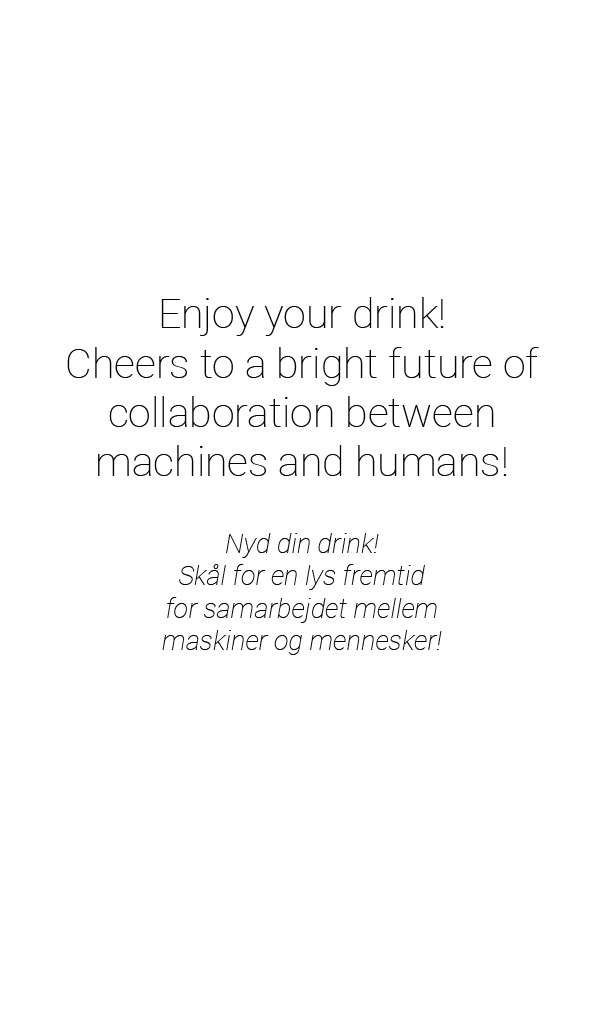
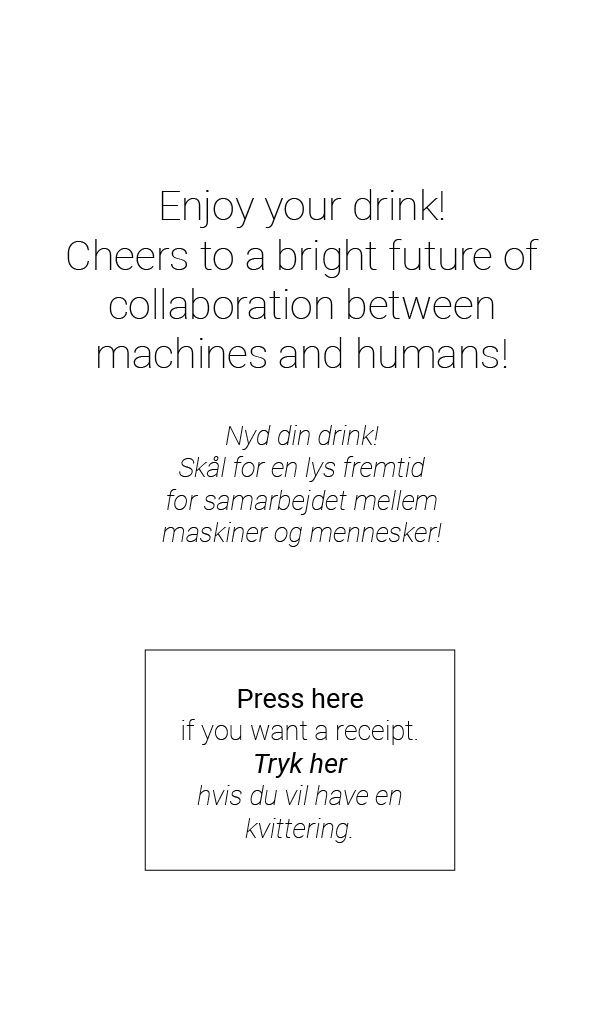
All seems to be working in new system, needs to check arduino call/response codes and test on system

diff --git a/SAM Csharp code/SAM0application/MainForm.Designer.cs b/SAM Csharp code/SAM0application/MainForm.Designer.cs
@@ -64,31 +64,34 @@
             this.statusLabel = new System.Windows.Forms.Label();
             this.progressBar = new System.Windows.Forms.ProgressBar();
             this.fakePayment = new System.Windows.Forms.Button();
+            this.priceLabel = new System.Windows.Forms.Label();
+            this.interfaceImage = new System.Windows.Forms.PictureBox();
+            this.label9 = new System.Windows.Forms.Label();
             this.textBox2 = new System.Windows.Forms.TextBox();
             this.ReceiptNoNumericUpDown = new System.Windows.Forms.NumericUpDown();
             this.LedBreathSpeedNumericUpDown = new System.Windows.Forms.NumericUpDown();
             this.LedBreathMinNumericUpDown = new System.Windows.Forms.NumericUpDown();
             this.LedBreathMaxNumericUpDown = new System.Windows.Forms.NumericUpDown();
+            this.numericUpDown4 = new System.Windows.Forms.NumericUpDown();
             this.tapMillisecondsNumericUpDown = new System.Windows.Forms.NumericUpDown();
             this.numericUpDown3 = new System.Windows.Forms.NumericUpDown();
             this.numericUpDown1 = new System.Windows.Forms.NumericUpDown();
             this.PaymentOnOffCheckbox = new System.Windows.Forms.CheckBox();
             this.checkBox6 = new System.Windows.Forms.CheckBox();
             this.PrintingCheckBox = new System.Windows.Forms.CheckBox();
-            this.priceLabel = new System.Windows.Forms.Label();
-            this.interfaceImage = new System.Windows.Forms.PictureBox();
             ((System.ComponentModel.ISupportInitialize)(this.ledStateNumericUpDown)).BeginInit();
             ((System.ComponentModel.ISupportInitialize)(this.interfaceStateNumericUpDown)).BeginInit();
             this.interfacePanel.SuspendLayout();
             ((System.ComponentModel.ISupportInitialize)(this.priceAmount)).BeginInit();
+            ((System.ComponentModel.ISupportInitialize)(this.interfaceImage)).BeginInit();
             ((System.ComponentModel.ISupportInitialize)(this.ReceiptNoNumericUpDown)).BeginInit();
             ((System.ComponentModel.ISupportInitialize)(this.LedBreathSpeedNumericUpDown)).BeginInit();
             ((System.ComponentModel.ISupportInitialize)(this.LedBreathMinNumericUpDown)).BeginInit();
             ((System.ComponentModel.ISupportInitialize)(this.LedBreathMaxNumericUpDown)).BeginInit();
+            ((System.ComponentModel.ISupportInitialize)(this.numericUpDown4)).BeginInit();
             ((System.ComponentModel.ISupportInitialize)(this.tapMillisecondsNumericUpDown)).BeginInit();
             ((System.ComponentModel.ISupportInitialize)(this.numericUpDown3)).BeginInit();
             ((System.ComponentModel.ISupportInitialize)(this.numericUpDown1)).BeginInit();
-            ((System.ComponentModel.ISupportInitialize)(this.interfaceImage)).BeginInit();
             this.SuspendLayout();
             // 
             // logInButton
@@ -349,7 +352,7 @@
             // label8
             // 
             this.label8.AutoSize = true;
-            this.label8.Location = new System.Drawing.Point(214, 171);
+            this.label8.Location = new System.Drawing.Point(217, 151);
             this.label8.Name = "label8";
             this.label8.Size = new System.Drawing.Size(50, 13);
             this.label8.TabIndex = 16;
@@ -402,6 +405,7 @@
             this.interfacePanel.Controls.Add(this.label2);
             this.interfacePanel.Controls.Add(this.SaveSettingsButton);
             this.interfacePanel.Controls.Add(this.textBox2);
+            this.interfacePanel.Controls.Add(this.label9);
             this.interfacePanel.Controls.Add(this.label8);
             this.interfacePanel.Controls.Add(this.ReceiptNoNumericUpDown);
             this.interfacePanel.Controls.Add(this.label15);
@@ -411,6 +415,7 @@
             this.interfacePanel.Controls.Add(this.label16);
             this.interfacePanel.Controls.Add(this.LedBreathMaxNumericUpDown);
             this.interfacePanel.Controls.Add(this.label17);
+            this.interfacePanel.Controls.Add(this.numericUpDown4);
             this.interfacePanel.Controls.Add(this.tapMillisecondsNumericUpDown);
             this.interfacePanel.Controls.Add(this.label13);
             this.interfacePanel.Controls.Add(this.numericUpDown3);
@@ -487,6 +492,34 @@
             this.fakePayment.UseVisualStyleBackColor = false;
             this.fakePayment.Click += new System.EventHandler(this.FakePayment_Click);
             // 
+            // priceLabel
+            // 
+            this.priceLabel.AutoSize = true;
+            this.priceLabel.Font = new System.Drawing.Font("Segoe MDL2 Assets", 20.25F, System.Drawing.FontStyle.Bold, System.Drawing.GraphicsUnit.Point, ((byte)(0)));
+            this.priceLabel.Location = new System.Drawing.Point(201, 552);
+            this.priceLabel.Name = "priceLabel";
+            this.priceLabel.Size = new System.Drawing.Size(204, 27);
+            this.priceLabel.TabIndex = 44;
+            this.priceLabel.Text = "1 EUR ≈ 7.50 DKK ";
+            // 
+            // interfaceImage
+            // 
+            this.interfaceImage.Location = new System.Drawing.Point(2, 1);
+            this.interfaceImage.Name = "interfaceImage";
+            this.interfaceImage.Size = new System.Drawing.Size(600, 1024);
+            this.interfaceImage.TabIndex = 45;
+            this.interfaceImage.TabStop = false;
+            this.interfaceImage.Click += new System.EventHandler(this.InterfaceImage_Click);
+            // 
+            // label9
+            // 
+            this.label9.AutoSize = true;
+            this.label9.Location = new System.Drawing.Point(113, 286);
+            this.label9.Name = "label9";
+            this.label9.Size = new System.Drawing.Size(84, 13);
+            this.label9.TabIndex = 16;
+            this.label9.Text = "s wait for receipt";
+            // 
             // textBox2
             // 
             this.textBox2.DataBindings.Add(new System.Windows.Forms.Binding("Text", global::SAM4application.Properties.Settings.Default, "ArduinoPort", true, System.Windows.Forms.DataSourceUpdateMode.OnPropertyChanged));
@@ -562,6 +595,22 @@
             this.LedBreathMaxNumericUpDown.Value = global::SAM4application.Properties.Settings.Default.LEDbrightnessMax;
             this.LedBreathMaxNumericUpDown.ValueChanged += new System.EventHandler(this.LedBreathMaxNumericUpDown_ValueChanged);
             // 
+            // numericUpDown4
+            // 
+            this.numericUpDown4.DataBindings.Add(new System.Windows.Forms.Binding("Value", global::SAM4application.Properties.Settings.Default, "receiptTimeout", true, System.Windows.Forms.DataSourceUpdateMode.OnPropertyChanged));
+            this.numericUpDown4.Location = new System.Drawing.Point(71, 283);
+            this.numericUpDown4.Maximum = new decimal(new int[] {
+            100000,
+            0,
+            0,
+            0});
+            this.numericUpDown4.Name = "numericUpDown4";
+            this.numericUpDown4.Size = new System.Drawing.Size(41, 20);
+            this.numericUpDown4.TabIndex = 31;
+            this.numericUpDown4.ThousandsSeparator = true;
+            this.numericUpDown4.Value = global::SAM4application.Properties.Settings.Default.receiptTimeout;
+            this.numericUpDown4.ValueChanged += new System.EventHandler(this.tapMillisecondsNumericUpDown_ValueChanged);
+            // 
             // tapMillisecondsNumericUpDown
             // 
             this.tapMillisecondsNumericUpDown.DataBindings.Add(new System.Windows.Forms.Binding("Value", global::SAM4application.Properties.Settings.Default, "tapMilliseconds", true, System.Windows.Forms.DataSourceUpdateMode.OnPropertyChanged));
@@ -570,7 +619,7 @@
             0,
             0,
             0});
-            this.tapMillisecondsNumericUpDown.Location = new System.Drawing.Point(155, 167);
+            this.tapMillisecondsNumericUpDown.Location = new System.Drawing.Point(158, 147);
             this.tapMillisecondsNumericUpDown.Maximum = new decimal(new int[] {
             100000,
             0,
@@ -660,25 +709,6 @@
             this.PrintingCheckBox.Text = "Printing on/off";
             this.PrintingCheckBox.UseVisualStyleBackColor = true;
             // 
-            // priceLabel
-            // 
-            this.priceLabel.AutoSize = true;
-            this.priceLabel.Font = new System.Drawing.Font("Segoe MDL2 Assets", 20.25F, System.Drawing.FontStyle.Bold, System.Drawing.GraphicsUnit.Point, ((byte)(0)));
-            this.priceLabel.Location = new System.Drawing.Point(201, 552);
-            this.priceLabel.Name = "priceLabel";
-            this.priceLabel.Size = new System.Drawing.Size(204, 27);
-            this.priceLabel.TabIndex = 44;
-            this.priceLabel.Text = "1 EUR ≈ 7.50 DKK ";
-            // 
-            // interfaceImage
-            // 
-            this.interfaceImage.Location = new System.Drawing.Point(2, 1);
-            this.interfaceImage.Name = "interfaceImage";
-            this.interfaceImage.Size = new System.Drawing.Size(600, 1024);
-            this.interfaceImage.TabIndex = 45;
-            this.interfaceImage.TabStop = false;
-            this.interfaceImage.Click += new System.EventHandler(this.InterfaceImage_Click);
-            // 
             // MainForm
             // 
             this.AutoScaleDimensions = new System.Drawing.SizeF(6F, 13F);
@@ -701,14 +731,15 @@
             this.interfacePanel.ResumeLayout(false);
             this.interfacePanel.PerformLayout();
             ((System.ComponentModel.ISupportInitialize)(this.priceAmount)).EndInit();
+            ((System.ComponentModel.ISupportInitialize)(this.interfaceImage)).EndInit();
             ((System.ComponentModel.ISupportInitialize)(this.ReceiptNoNumericUpDown)).EndInit();
             ((System.ComponentModel.ISupportInitialize)(this.LedBreathSpeedNumericUpDown)).EndInit();
             ((System.ComponentModel.ISupportInitialize)(this.LedBreathMinNumericUpDown)).EndInit();
             ((System.ComponentModel.ISupportInitialize)(this.LedBreathMaxNumericUpDown)).EndInit();
+            ((System.ComponentModel.ISupportInitialize)(this.numericUpDown4)).EndInit();
             ((System.ComponentModel.ISupportInitialize)(this.tapMillisecondsNumericUpDown)).EndInit();
             ((System.ComponentModel.ISupportInitialize)(this.numericUpDown3)).EndInit();
             ((System.ComponentModel.ISupportInitialize)(this.numericUpDown1)).EndInit();
-            ((System.ComponentModel.ISupportInitialize)(this.interfaceImage)).EndInit();
             this.ResumeLayout(false);
             this.PerformLayout();
 
@@ -763,6 +794,8 @@
         private System.Windows.Forms.Button fakePayment;
         private System.Windows.Forms.CheckBox PaymentOnOffCheckbox;
         private System.Windows.Forms.NumericUpDown priceAmount;
+        private System.Windows.Forms.Label label9;
+        private System.Windows.Forms.NumericUpDown numericUpDown4;
     }
 }
 

diff --git a/SAM Csharp code/SAM0application/MainForm.cs b/SAM Csharp code/SAM0application/MainForm.cs
@@ -11,7 +11,7 @@ using System.Drawing.Printing;
 using System.Drawing;
 using System.Net.NetworkInformation;
 using System.Security;
-
+using System.Diagnostics;
 
 namespace SAM4application
 {
@@ -22,6 +22,9 @@ namespace SAM4application
         private SumUpService _sumUpService;
         private Tuple<Payment, CancellationTokenSource> _currentPayment;
         private bool fakePaymentVar = false;
+        private bool cupplaced = false;
+        private bool receiptRequested = false;
+        
 
         //interface stuff
         Image idleimage = new Bitmap(Properties.Resources.idle);
@@ -63,13 +66,14 @@ namespace SAM4application
                 if (samstate == SAMstates.thankYou)
                 {
                     interfaceImage.Image = thankyouimage;
+                    /*
                     myTimer.Tick += (o, ea) =>
                     {
                         SAMstate = SAMstates.idle;
                     };
                     myTimer.Interval = 2000; 
                     myTimer.Start();
-                    
+                    */
                     
                 }
                 if (samstate ==SAMstates.error)
@@ -85,8 +89,6 @@ namespace SAM4application
         }
 
         #endregion
-
-
 
         #region password storage code
         //method by https://weblogs.asp.net/jongalloway/encrypting-passwords-in-a-net-app-config-file
@@ -157,20 +159,45 @@ namespace SAM4application
             //realPaymentHappening = true;
             PayButton.PerformClick();
         }
-       private void paymentSuccess()
+       private async void paymentSuccess()
         {
-            AppendToLog("payment was successfull, printing receipt!");
-            PrintReceipt();
-            AppendToLog(@"finished printing, now tapping");
-
-            // var command = new SendCommand((int)Command.TapAmount, Properties.Settings.Default.TapAmount);
-            var command = new SendCommand((int)Command.PumpTapMilliseconds, (int)Properties.Settings.Default.tapMilliseconds);
-
-            _cmdMessenger.QueueCommand(new CollapseCommandStrategy(command));
-
+            AppendToLog("payment was successfull, waiting for cup");
             SAMstate = SAMstates.waitingForTapping;
-            command = new SendCommand((int)Command.SetLedState, SAMstate.ToString());
+
+
+            while (!cupplaced)
+            {
+                AppendToLog("waiting for tap button to be pressed");
+                await Task.Delay(100);
+                //add a timeout to call paymentFail();?
+            }
+            cupplaced = false;
+             SAMstate = SAMstates.thankYou;
+            await Task.Delay(100);//to make the ui update
+            // var command = new SendCommand((int)Command.TapAmount, Properties.Settings.Default.TapAmount);
+            AppendToLog("tapping now for "+ Properties.Settings.Default.tapMilliseconds+" ms");
+            var command = new SendCommand((int)Command.PumpTapMilliseconds, (int)Properties.Settings.Default.tapMilliseconds);
             _cmdMessenger.QueueCommand(new CollapseCommandStrategy(command));
+            //decide on receipt or not
+
+            TimeSpan maxDuration = TimeSpan.FromSeconds((double)Properties.Settings.Default.tapMilliseconds/1000 + (double)Properties.Settings.Default.receiptTimeout);
+            Stopwatch sw = Stopwatch.StartNew();
+
+            while (sw.Elapsed < maxDuration && !receiptRequested)
+            {
+                //just waiting
+                AppendToLog("waiting for receipt button to be pressed");
+                await Task.Delay(100);
+            }
+
+            if (receiptRequested) PrintReceipt();
+            receiptRequested = false;
+            await Task.Delay(1000);
+            SAMstate = SAMstates.idle;
+
+
+            //command = new SendCommand((int)Command.SetLedState, SAMstate.ToString());
+            //_cmdMessenger.QueueCommand(new CollapseCommandStrategy(command));
             //_changeInterface = (int)SAMstate;
         }
 
@@ -330,9 +357,11 @@ namespace SAM4application
                 {
                     AppendToLog("waiting for you to press fakepayment button");
                     await Task.Delay(100);
+                    //add a timeout to call paymentFail();?
                 }
-
                 fakePaymentVar = false;
+                paymentSuccess();
+
                 return;
             }
 
@@ -540,8 +569,6 @@ namespace SAM4application
         
 
         #endregion        
-
-   
 
         #region logging code
 
@@ -913,7 +940,19 @@ namespace SAM4application
                 //click sodabutton
             }
 
+            if (SAMstate == SAMstates.waitingForTapping)
+            {
+                cupplaced = true;
+
+            }
+
+            if (SAMstate == SAMstates.thankYou)
+            {
+                receiptRequested = true;
+
+            }
             
+
         }
 
 

diff --git a/SAM Csharp code/SAM0application/Properties/Settings.Designer.cs b/SAM Csharp code/SAM0application/Properties/Settings.Designer.cs
@@ -190,5 +190,17 @@ namespace SAM4application.Properties {
                 this["paymentEnabled"] = value;
             }
         }
+        
+        [global::System.Configuration.UserScopedSettingAttribute()]
+        [global::System.Diagnostics.DebuggerNonUserCodeAttribute()]
+        [global::System.Configuration.DefaultSettingValueAttribute("5")]
+        public decimal receiptTimeout {
+            get {
+                return ((decimal)(this["receiptTimeout"]));
+            }
+            set {
+                this["receiptTimeout"] = value;
+            }
+        }
     }
 }
